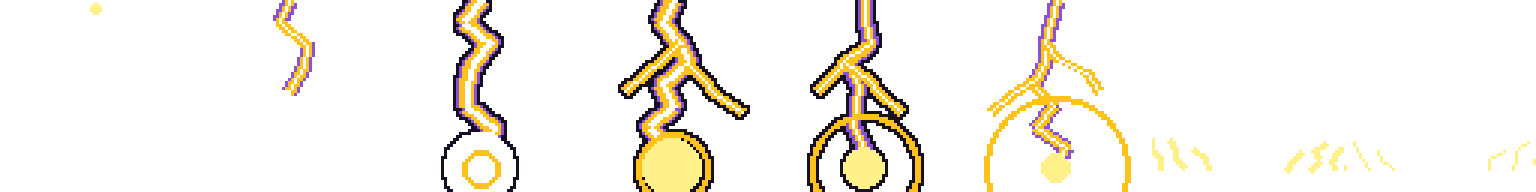
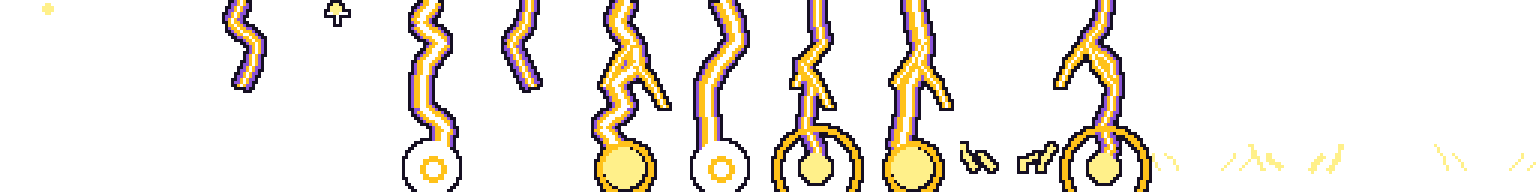
Redraw Volt hit animation (two bolts) (#19)
* Fix Pages URL case (path is case-sensitive)

Claude-Session: https://claude.ai/code/session_017Aje29fcCFurFf66mBv5to

* Update icon.svg.import with Godot 4.7.2 default fields

Claude-Session: https://claude.ai/code/session_017Aje29fcCFurFf66mBv5to

* Add SNES-style gamepad touch layout (D-pad + A/B/X/Y diamond), make it default

Claude-Session: https://claude.ai/code/session_017Aje29fcCFurFf66mBv5to

* Gamepad layout: full D-pad cross (up = hard drop) and SNES button colours

Claude-Session: https://claude.ai/code/session_017Aje29fcCFurFf66mBv5to

* Touch: snap taps in gaps/edges to nearest button (40px slop), bigger face buttons

Claude-Session: https://claude.ai/code/session_017Aje2AFmWso7fyMwhqMWVA

* Touch: angle-based D-pad zone, instant move on tap, soft drop can't carry into next piece; easier CPU

Claude-Session: https://claude.ai/code/session_017Aje2AFmWso7fyMwhqMWVA

* Spread gamepad clusters toward the screen edges

Claude-Session: https://claude.ai/code/session_017Aje2AFmWso7fyMwhqMWVA

* Add VS character art generator (6 busts, portraits, skill icons), draft

Claude-Session: https://claude.ai/code/session_017Aje2AFmWso7fyMwhqMWVA

* Redraw VS characters as pixel art

Claude-Session: https://claude.ai/code/session_017Aje2AFmWso7fyMwhqMWVA

* Ignore Python bytecode

Claude-Session: https://claude.ai/code/session_017Aje2AFmWso7fyMwhqMWVA

* Sharper character designs: angry blade eyes, rim light, angular silhouettes
[…]

diff --git a/tools/gen_fx.py b/tools/gen_fx.py
@@ -213,36 +213,47 @@ def bolt(rnd, x0, y0, x1, y1, seg=7, jit=7):
     return pts
 
 
+def strike(d, c, x, li, rnd):
+    """One lightning bolt at column x, li = frames since it started (0 spark ... 6 afterglow)."""
+    if li < 0:
+        return False
+    thick_bolt = li in (2, 3)
+    if li == 0:
+        star(d, x, 4, 3, c[0]); disc(d, x, 3, 2, c[1])
+    elif li <= 4:
+        bot = 28 if li == 1 else GROUND
+        pts = bolt(rnd, x, 0, x + rnd.randint(-3, 3), bot, seg=7, jit=6)
+        w = 5 if thick_bolt else 3
+        thick(d, pts, w + 2, c[3]); thick(d, pts, w, c[2]); thick(d, pts, max(1, w - 3), c[0])
+        if li >= 3:
+            for bx in (-1, 1):
+                k = rnd.randint(2, 3)
+                br = bolt(rnd, pts[k][0], pts[k][1], pts[k][0] + bx * 9, pts[k][1] + 14, seg=5, jit=2)
+                thick(d, br, 3, c[2]); thick(d, br, 1, c[0])
+        if li >= 2:
+            disc(d, x, GROUND, 9 - (li - 2) * 2, c[0] if li == 2 else c[1])
+            ring(d, x, GROUND, 4 + (li - 2) * 5, 2, c[2])
+    elif li <= 6:
+        k = (li - 5) / 1.5
+        for sdir in (-1, 1):
+            for j in range(2):
+                bx = x + sdir * (5 + j * 6 + k * 4)
+                pts = bolt(rnd, bx, GROUND, bx + sdir * 4, GROUND - 5 - j * 3, seg=3, jit=2)
+                thick(d, pts, 1 if k > 0.5 else 2, c[1])
+    else:
+        for j in range(5):
+            d.point((x + rnd.randint(-10, 10), rnd.randint(40, 56)), fill=c[0])
+    return thick_bolt
+
+
 def hit_volt(i):
-    t = i / (FR - 1)
+    """Two 6-block bolts strike the board's left and right sides (the second one frame later)."""
     c = ramp("volt")
     im, d = canvas()
     rnd = random.Random(40 + i)
-    if i == 0:
-        star(d, 32, 4, 3, c[0]); disc(d, 32, 3, 2, c[1])
-    elif i <= 5:
-        top, bot = 0, (30 if i == 1 else GROUND)
-        pts = bolt(rnd, 32, top, 32 + rnd.randint(-3, 3), bot)
-        w = 5 if i in (2, 3) else 3
-        thick(d, pts, w + 2, c[3]); thick(d, pts, w, c[2]); thick(d, pts, max(1, w - 3), c[0])
-        if i >= 3:
-            for bx in (-1, 1):
-                k = rnd.randint(2, 3)
-                b = bolt(rnd, pts[k][0], pts[k][1], pts[k][0] + bx * 18, pts[k][1] + 16, seg=5, jit=3)
-                thick(d, b, 3, c[2]); thick(d, b, 1, c[0])
-        if i >= 2:
-            disc(d, 32, GROUND, 12 - (i - 2) * 2.5, c[0] if i == 2 else c[1])
-            ring(d, 32, GROUND, 6 + (i - 2) * 6, 2, c[2])
-    else:
-        k = (i - 5) / 2
-        for s in (-1, 1):
-            for j in range(3):
-                bx = 32 + s * (10 + j * 8 + k * 6)
-                pts = bolt(rnd, bx, GROUND, bx + s * 5, GROUND - 6 - j * 3, seg=3, jit=2)
-                thick(d, pts, 1 if k > 0.5 else 2, c[1])
-        for j in range(10 - i):
-            d.point((rnd.randint(10, 54), rnd.randint(30, 56)), fill=c[0])
-    return outline(im) if i in (2, 3, 4) else im
+    big = strike(d, c, 16, i, rnd)
+    big = strike(d, c, 48, i - 1, rnd) or big
+    return outline(im) if 1 <= i <= 5 else im
 
 
 def hit_shade(i):
